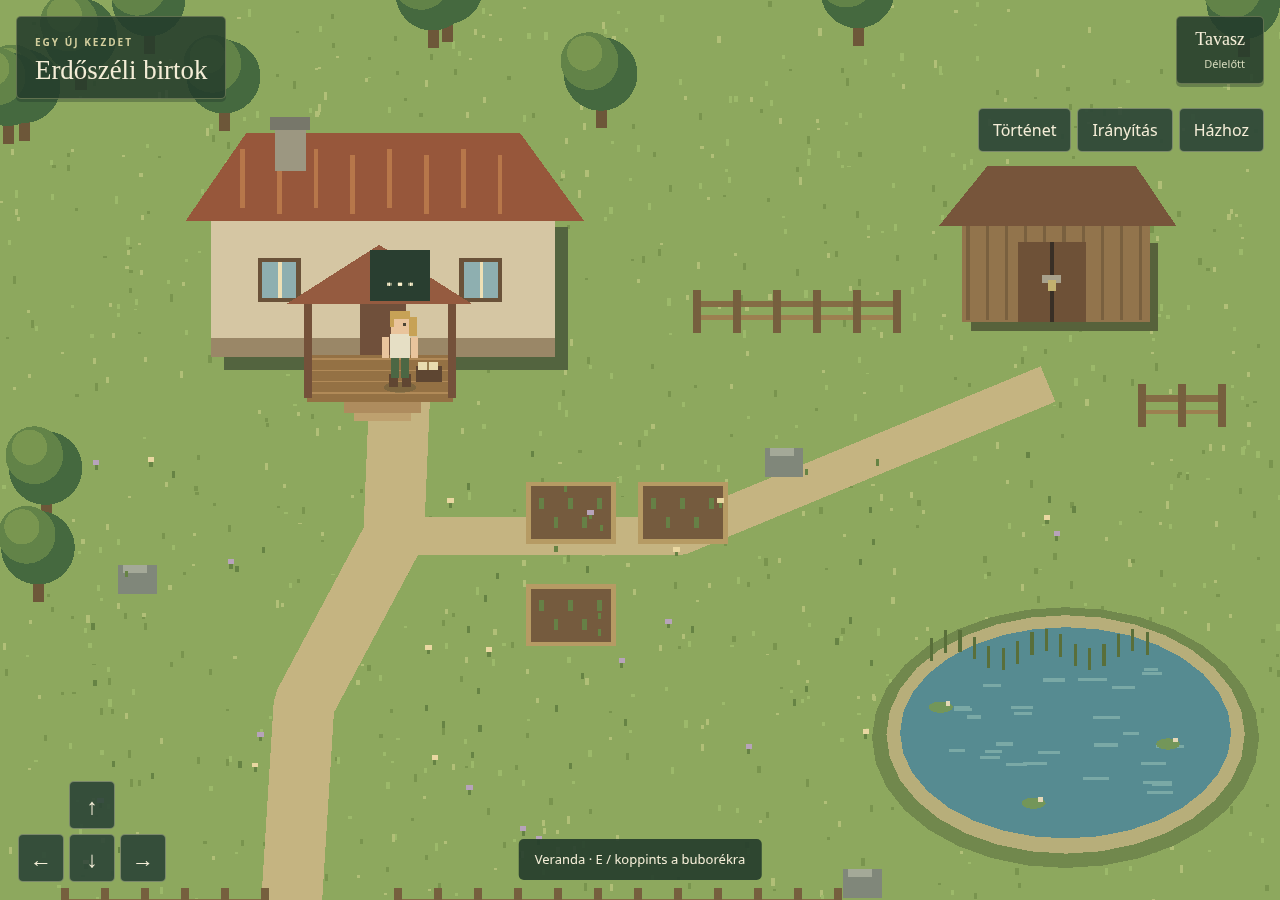
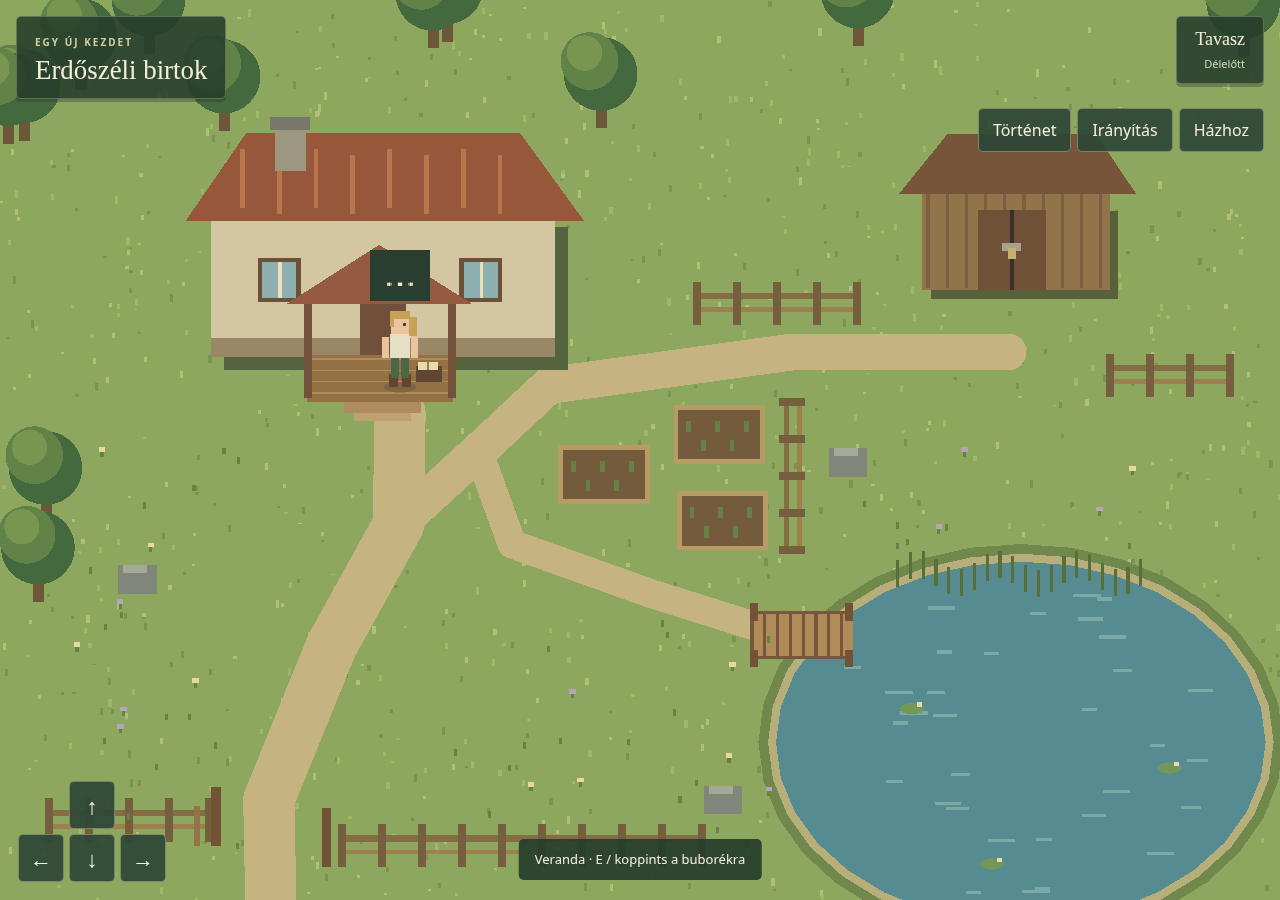
Align farm layout with concept and keep beds clear of paths

diff --git a/src/main.ts b/src/main.ts
@@ -1,6 +1,7 @@
 import Phaser from 'phaser';
 import './style.css';
 import { move, START } from './movement';
+import { farmLayout } from './layout';
 const dialogue=document.querySelector<HTMLDialogElement>('#dialogue')!;
 const story='A kutatólaborban mindig akadt egy újabb feladat. Szerettem a munkámat, de elfáradtam. Változásra volt szükségem.\n\nMost itt vagyok. A ház előtt gaz nő, a kerítés javításra vár. Nem kell mindent ma rendbe hoznom. Ez egy új kezdet.';
 function showDialogue(title:string,text:string,label='A BIRTOKON'){
@@ -34,8 +35,11 @@ class Farm extends Phaser.Scene {
   // Deterministic decoration keeps the prototype reproducible.
   let seed=71;const random=()=>{seed=(seed*1664525+1013904223)>>>0;return seed/4294967296;};
   for(let i=0;i<1100;i++){const x=random()*800,y=random()*600;rect(x,y,2,random()*4+1,[0x79944e,0x9cb96a,0xb1bf77][i%3]);}
-  g.lineStyle(38,0xc5b481);g.beginPath();g.moveTo(180,600);g.lineTo(190,440);g.lineTo(246,335);g.lineTo(250,242);g.strokePath();
-  g.lineStyle(24,0xc5b481);g.beginPath();g.moveTo(246,335);g.lineTo(425,335);g.lineTo(655,240);g.strokePath();
+  for(const path of farmLayout.paths){
+    g.lineStyle(path.width,0xc5b481);g.beginPath();
+    path.points.forEach(([x,y],i)=>i===0?g.moveTo(x,y):g.lineTo(x,y));g.strokePath();
+    g.fillStyle(0xc5b481);for(const [x,y] of path.points)g.fillCircle(x,y,path.width/2);
+  }
   for(let i=0;i<70;i++){const x=random()*800,y=random()*600;if(y<65||x<35||x>765)this.tree(g,x,y);}
   // Cottage and covered veranda.
   rect(140,142,215,89,0x53643f);rect(132,128,215,95,0xd5c6a3);rect(132,211,215,12,0x9a8767);
@@ -49,22 +53,34 @@ class Farm extends Phaser.Scene {
   rect(190,184,5,65,0x74513a);rect(280,184,5,65,0x74513a);
   g.fillStyle(0x955b40);g.fillTriangle(179,190,295,190,237,153);
   rect(260,229,16,10,0x5e4632);rect(261,226,13,5,0xe8dcaf);rect(267,226,1,5,0x977f51);
-  // Locked outbuilding.
-  rect(607,152,117,55,0x57623b);rect(601,133,118,68,0x92744c);
-  for(let x=604;x<719;x+=12)rect(x,137,2,63,0x79603f);
-  rect(636,151,43,50,0x6e5137);rect(656,151,3,50,0x392f26);rect(651,172,12,5,0xa8a18c);rect(655,175,5,7,0xc3b16f);
-  g.fillStyle(0x77553b);g.fillTriangle(587,141,735,141,710,104);g.fillTriangle(587,141,710,104,617,104);
-  // Pond banks and water, matching collision bounds approximately.
-  g.fillStyle(0x71884d);g.fillEllipse(666,461,242,163);g.fillStyle(0xb7ae7a);g.fillEllipse(666,459,224,149);g.fillStyle(0x568b91);g.fillEllipse(666,458,207,132);
-  for(let i=0;i<27;i++){const x=592+random()*135,y=417+random()*78;rect(x,y,9+random()*9,2,0x7aa9a6);}
-  for(const [x,y] of [[588,442],[730,465],[646,502]]){g.fillStyle(0x739659);g.fillEllipse(x,y,15,7);rect(x+3,y-4,3,3,0xe5d8b7);}
-  for(let i=0;i<16;i++){const x=581+i*9;rect(x,399-Math.sin(i)*6,2,14,0x596f3a);}
-  // Old beds, stones, and fences.
-  for(const [x,y] of [[329,301],[399,301],[329,365]]){rect(x,y,56,39,0xb69b64);rect(x+3,y+3,50,33,0x755b3e);for(let i=0;i<5;i++)rect(x+8+i*9,y+10+i%2*12,3,7,0x668046);}
-  for(const [x,y] of [[74,353],[478,280],[527,543]]){rect(x,y,24,18,0x80877a);rect(x+3,y,15,5,0xa4a998);}
+  // Locked outbuilding, closer to the garden as in the reference.
+  const shedRect=(x:number,y:number,w:number,h:number,c:number)=>rect(x+farmLayout.shedOffset.x,y+farmLayout.shedOffset.y,w,h,c);
+  shedRect(607,152,117,55,0x57623b);shedRect(601,133,118,68,0x92744c);
+  for(let x=604;x<719;x+=12)shedRect(x,137,2,63,0x79603f);
+  shedRect(636,151,43,50,0x6e5137);shedRect(656,151,3,50,0x392f26);shedRect(651,172,12,5,0xa8a18c);shedRect(655,175,5,7,0xc3b16f);
+  g.fillStyle(0x77553b);g.fillTriangle(562,121,710,121,685,84);g.fillTriangle(562,121,685,84,592,84);
+  // A larger, irregular-looking pond and short dock echo the reference's lower-right shoreline.
+  const pond=farmLayout.pond;
+  g.fillStyle(0x71884d);g.fillEllipse(pond.x,pond.y,pond.rx*2+22,pond.ry*2+22);
+  g.fillStyle(0xb7ae7a);g.fillEllipse(pond.x,pond.y,pond.rx*2+10,pond.ry*2+10);
+  g.fillStyle(0x568b91);g.fillEllipse(pond.x,pond.y,pond.rx*2,pond.ry*2);
+  for(let i=0;i<48;i++){const x=pond.x-pond.rx+random()*pond.rx*2,y=pond.y-pond.ry+random()*pond.ry*2;if(((x-pond.x)/pond.rx)**2+((y-pond.y)/pond.ry)**2<.8)rect(x,y,9+random()*9,2,0x7aa9a6);}
+  for(const [x,y] of [[570,443],[731,480],[620,540]]){g.fillStyle(0x739659);g.fillEllipse(x,y,15,7);rect(x+3,y-4,3,3,0xe5d8b7);}
+  for(let i=0;i<20;i++){const x=560+i*8;rect(x,350-Math.sin(i)*6,2,17,0x596f3a);}
+  const dock=farmLayout.dock;
+  rect(dock.x,dock.y,dock.w,dock.h,0x77573c);
+  for(let x=dock.x+2;x<dock.x+dock.w;x+=8)rect(x,dock.y+2,6,dock.h-4,0xb18c59);
+  for(const x of [dock.x,dock.x+dock.w-5]){rect(x,dock.y-5,5,11,0x735337);rect(x,dock.y+dock.h-6,5,11,0x735337);}
+  // Beds are grouped to the right of the veranda, away from all path edges.
+  for(const bed of farmLayout.beds){const {x,y,w,h}=bed;rect(x,y,w,h,0xb69b64);rect(x+3,y+3,w-6,h-6,0x755b3e);for(let i=0;i<5;i++)rect(x+8+i*9,y+10+i%2*12,3,7,0x668046);}
+  for(const [x,y] of [[74,353],[518,280],[440,491]]){rect(x,y,24,18,0x80877a);rect(x+3,y,15,5,0xa4a998);}
   const fence=(x:number,y:number,count:number)=>{rect(x,y+7,count*25,4,0x846c45);rect(x,y+16,count*25,3,0x9c8050);for(let i=0;i<=count;i++)rect(x+i*25,y,5,27,0x765f3e);};
-  fence(38,555,5);fence(246,555,11);fence(433,181,5);fence(711,240,2);
-  for(let i=0;i<100;i++){const x=45+random()*710,y=275+random()*265;if(Math.abs(x-215)<50||x>550&&y>385)continue;rect(x,y,2,4,0x668344);if(i%3===0)rect(x-1,y-2,4,3,i%2?0xe9d7a1:0xb7a3ba);}
+  fence(28,499,4);fence(211,515,9);fence(433,176,4);fence(691,221,3);
+  rect(490,249,3,94,0x846c45);rect(498,249,3,94,0x9c8050);
+  for(let y=249;y<=343;y+=23)rect(487,y,16,5,0x765f3e);
+  // Open gate on the lower-left path.
+  rect(132,492,6,37,0x715436);rect(201,505,6,37,0x715436);rect(121,504,4,25,0x947348);
+  for(let i=0;i<100;i++){const x=45+random()*710,y=275+random()*265;if(Math.abs(x-215)<65||x>480&&y>340||x>325&&x<495&&y<380)continue;rect(x,y,2,4,0x668344);if(i%3===0)rect(x-1,y-2,4,3,i%2?0xe9d7a1:0xb7a3ba);}
   this.actor=this.add.container(START.x,START.y).setDepth(100);
   const part=(x:number,y:number,w:number,h:number,color:number)=>{const r=this.add.rectangle(x,y,w,h,color);this.actor.add(r);return r;};
   this.actor.add(this.add.ellipse(0,0,20,7,0x35442e,0.25));
@@ -106,7 +122,7 @@ class Farm extends Phaser.Scene {
   const walking=next.x!==before.x||next.y!==before.y;
   this.actor.setScale(1,walking?1+Math.sin(time/85)*0.025:1);
   const near=(x:number,y:number,d:number)=>Phaser.Math.Distance.Between(next.x,next.y,x,y)<d;
-  this.nearby=near(657,206,66)?'shed':near(555,450,65)?'pond':near(250,244,55)?'house':'';
+  this.nearby=near(657+farmLayout.shedOffset.x,206+farmLayout.shedOffset.y,66)?'shed':near(farmLayout.dock.x+25,farmLayout.dock.y+10,60)?'pond':near(250,244,55)?'house':'';
   this.bubble.setPosition(next.x,next.y-54).setText(this.nearby==='shed'?'?':this.nearby?'…':'').setVisible(Boolean(this.nearby));
   document.querySelector('#status')!.textContent=this.nearby==='shed'?'?':this.nearby==='house'?'Veranda · E / koppints a buborékra':this.nearby==='pond'?'Tópart · E / koppints a buborékra':'';
  }

diff --git a/src/layout.test.ts b/src/layout.test.ts
@@ -1,0 +1,26 @@
+import {describe,it,expect} from 'vitest';
+import {farmLayout} from './layout';
+import {blocked} from './movement';
+function segmentDistance(px:number,py:number,a:readonly number[],b:readonly number[]){
+ const dx=b[0]-a[0],dy=b[1]-a[1],length=dx*dx+dy*dy;
+ const t=length?Math.max(0,Math.min(1,((px-a[0])*dx+(py-a[1])*dy)/length)):0;
+ return Math.hypot(px-a[0]-t*dx,py-a[1]-t*dy);
+}
+describe('farm layout clearance',()=>{
+ it('keeps the full surface of each bed away from every path',()=>{
+  for(const bed of farmLayout.beds)for(const path of farmLayout.paths)for(let i=1;i<path.points.length;i++){
+   // Sample the entire bed, including its border, against the round-capped path.
+   for(let x=bed.x;x<=bed.x+bed.w;x++)for(let y=bed.y;y<=bed.y+bed.h;y++)
+    expect(segmentDistance(x,y,path.points[i-1],path.points[i])).toBeGreaterThan(path.width/2+3);
+  }
+ });
+ it('allows entry along the dock but stops at the water past its end',()=>{
+  const {dock}=farmLayout;expect(blocked(dock.x+20,dock.y+15)).toBe(false);
+  expect(blocked(dock.x+dock.w+14,dock.y+15)).toBe(true);
+ });
+ it('keeps the main walking route between gate and veranda unobstructed',()=>{
+  const path=farmLayout.paths[0];for(let i=1;i<path.points.length;i++){
+   const a=path.points[i-1],b=path.points[i];for(let t=0;t<=1;t+=.025){const y=a[1]+(b[1]-a[1])*t;if(y>588)continue;expect(blocked(a[0]+(b[0]-a[0])*t,y)).toBe(false);}
+  }
+ });
+});

diff --git a/src/movement.ts b/src/movement.ts
@@ -1,13 +1,16 @@
+import { farmLayout } from './layout';
 export type Box = { x: number; y: number; w: number; h: number };
 export const START = { x: 250, y: 242 };
 export const obstacles: Box[] = [
-  {x:132,y:110,w:215,h:113}, {x:601,y:112,w:118,h:89},
-  {x:572,y:390,w:188,h:139}, {x:551,y:415,w:225,h:92},
+  {x:132,y:110,w:215,h:113}, {x:601+farmLayout.shedOffset.x,y:112+farmLayout.shedOffset.y,w:118,h:89},
   {x:0,y:0,w:800,h:65}, {x:0,y:0,w:30,h:600}, {x:775,y:0,w:25,h:600},
-  {x:74,y:353,w:24,h:18}, {x:478,y:280,w:27,h:18}
+  {x:74,y:353,w:24,h:18}, {x:518,y:280,w:24,h:18}, {x:440,y:491,w:24,h:18}
 ];
 export function blocked(x:number,y:number):boolean {
-  return x<12||x>788||y<12||y>588||obstacles.some(b=>x+7>b.x&&x-7<b.x+b.w&&y+3>b.y&&y-4<b.y+b.h);
+  const {pond,dock}=farmLayout;
+  const onDock=x>=dock.x+7&&x<=dock.x+dock.w-7&&y>=dock.y&&y<=dock.y+dock.h-4;
+  const inWater=((x-pond.x)/(pond.rx+7))**2+((y-pond.y)/(pond.ry+4))**2<1;
+  return (inWater&&!onDock)||x<12||x>788||y<12||y>588||obstacles.some(b=>x+7>b.x&&x-7<b.x+b.w&&y+3>b.y&&y-4<b.y+b.h);
 }
 export function move(x:number,y:number,dx:number,dy:number,seconds:number){
   const length=Math.hypot(dx,dy); if(!length)return {x,y};

diff --git a/src/movement.test.ts b/src/movement.test.ts
@@ -4,7 +4,7 @@ describe('farm movement',()=>{
  it('starts outside collision geometry at the veranda',()=>expect(blocked(START.x,START.y)).toBe(false));
  it('keeps diagonal and straight movement equally fast',()=>{const a=move(400,450,1,0,.04),b=move(400,450,1,1,.04);expect(Math.hypot(a.x-400,a.y-450)).toBeCloseTo(Math.hypot(b.x-400,b.y-450));});
  it('does not enter the house when walking north from the door',()=>{let p={...START};for(let i=0;i<80;i++)p=move(p.x,p.y,0,-1,.04);expect(p.y).toBeGreaterThanOrEqual(227);expect(blocked(p.x,p.y)).toBe(false);});
- it('blocks the pond',()=>{let p={x:525,y:460};for(let i=0;i<80;i++)p=move(p.x,p.y,1,0,.04);expect(p.x).toBeLessThan(545);expect(blocked(p.x,p.y)).toBe(false);});
+ it('blocks the pond',()=>{let p={x:450,y:460};for(let i=0;i<80;i++)p=move(p.x,p.y,1,0,.04);expect(p.x).toBeLessThan(480);expect(blocked(p.x,p.y)).toBe(false);});
  it('keeps a character inside the farm after a long frame',()=>{const p=move(400,585,0,1,20);expect(p.y).toBeLessThanOrEqual(588);});
  it('allows the path from veranda into the yard',()=>{let p={...START};for(let i=0;i<20;i++)p=move(p.x,p.y,0,1,.04);expect(p.y).toBeGreaterThan(300);});
 });

diff --git a/src/layout.ts b/src/layout.ts
@@ -1,0 +1,16 @@
+// Shared world-space layout: drawing, collision and proximity prompts use the same anchors.
+export const farmLayout = {
+  pond: { x: 638, y: 464, rx: 153, ry: 113 },
+  shedOffset: { x: -25, y: -20 },
+  beds: [
+    { x: 349, y: 278, w: 57, h: 37 },
+    { x: 421, y: 253, w: 57, h: 37 },
+    { x: 423, y: 307, w: 57, h: 37 },
+  ],
+  paths: [
+    { width: 32, points: [[170,600],[168,500],[207,404],[249,328],[250,258]] },
+    { width: 23, points: [[249,328],[299,282],[343,241],[495,220],[630,220]] },
+    { width: 18, points: [[299,282],[320,340],[407,371],[480,394]] },
+  ],
+  dock: { x: 469, y: 382, w: 64, h: 30 },
+} as const;

diff --git a/docs/jatekszabalyok.md b/docs/jatekszabalyok.md
@@ -19,3 +19,7 @@ Termesztés, eszközhasználat, stamina, idő múlása, napzárás, eladás, kat
 ## Felületfrissítés
 
 A játék most az egész ablakot használja, a kamera méretváltásra alkalmazkodik és követi a karaktert. A történet, irányítás és helyszínszövegek a játéktér fölött jelennek meg. A bevezető megnyitása nem mentett állapot: jelenleg minden betöltéskor megjelenik. A párbeszéd leállítja a mozgást, és bezáráskor törli a beragadt iránybemeneteket. A képernyőgombok és a billentyűzet továbbra is használhatók.
+
+## Elrendezés pontosítása
+
+Az ágyások a verandától jobbra, kompakt csoportban helyezkednek el. Az ösvények körülöttük futnak, a melléképület balra és feljebb került, a tó nagyobb partvonalat és rövid stéget kapott a referenciához közelítve. A rajzolás és az ütközés közös elrendezési adatokból dolgozik. Külön teszt ellenőrzi, hogy az ágyások nem lógnak az utakba, a főösvény járható, a stégre fel lehet lépni, a vízbe nem. A grafika továbbra is egyszerűsített helykitöltő, nem a hangulatterv pontos reprodukciója.
